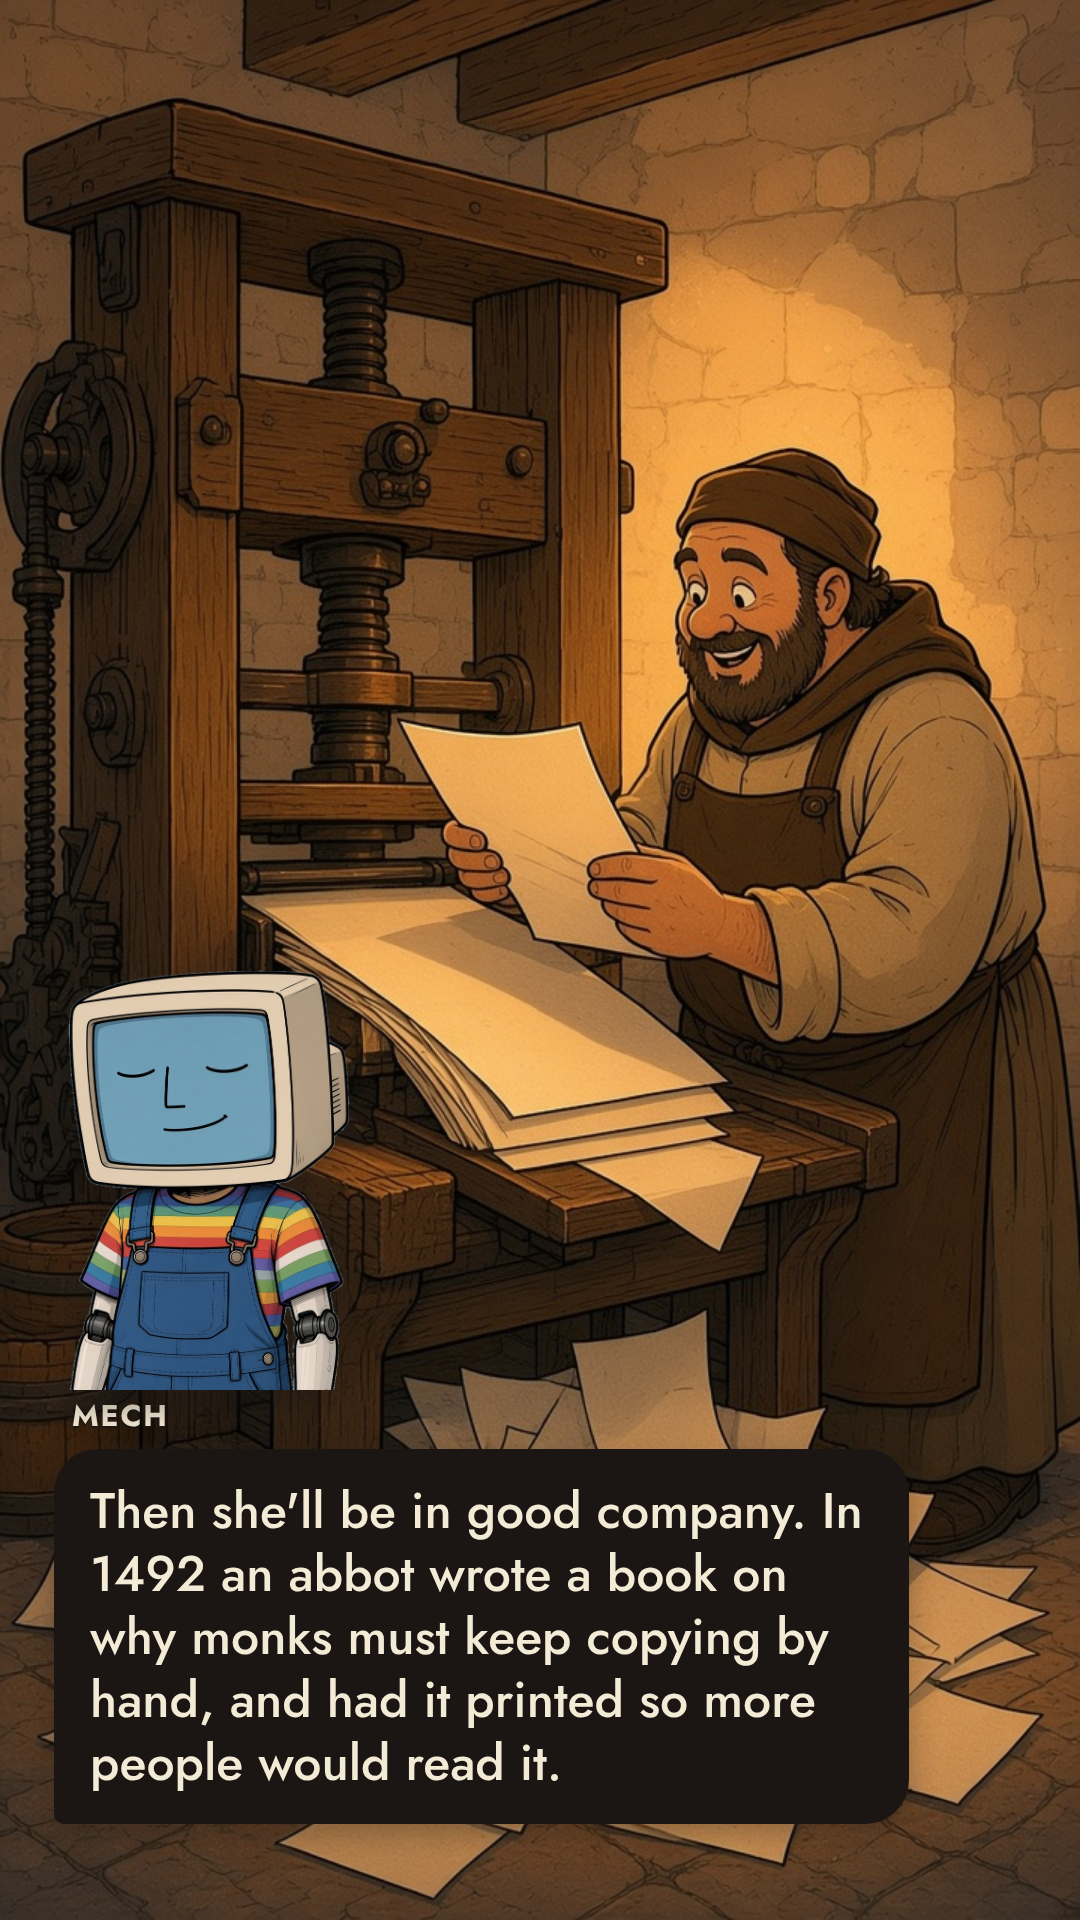
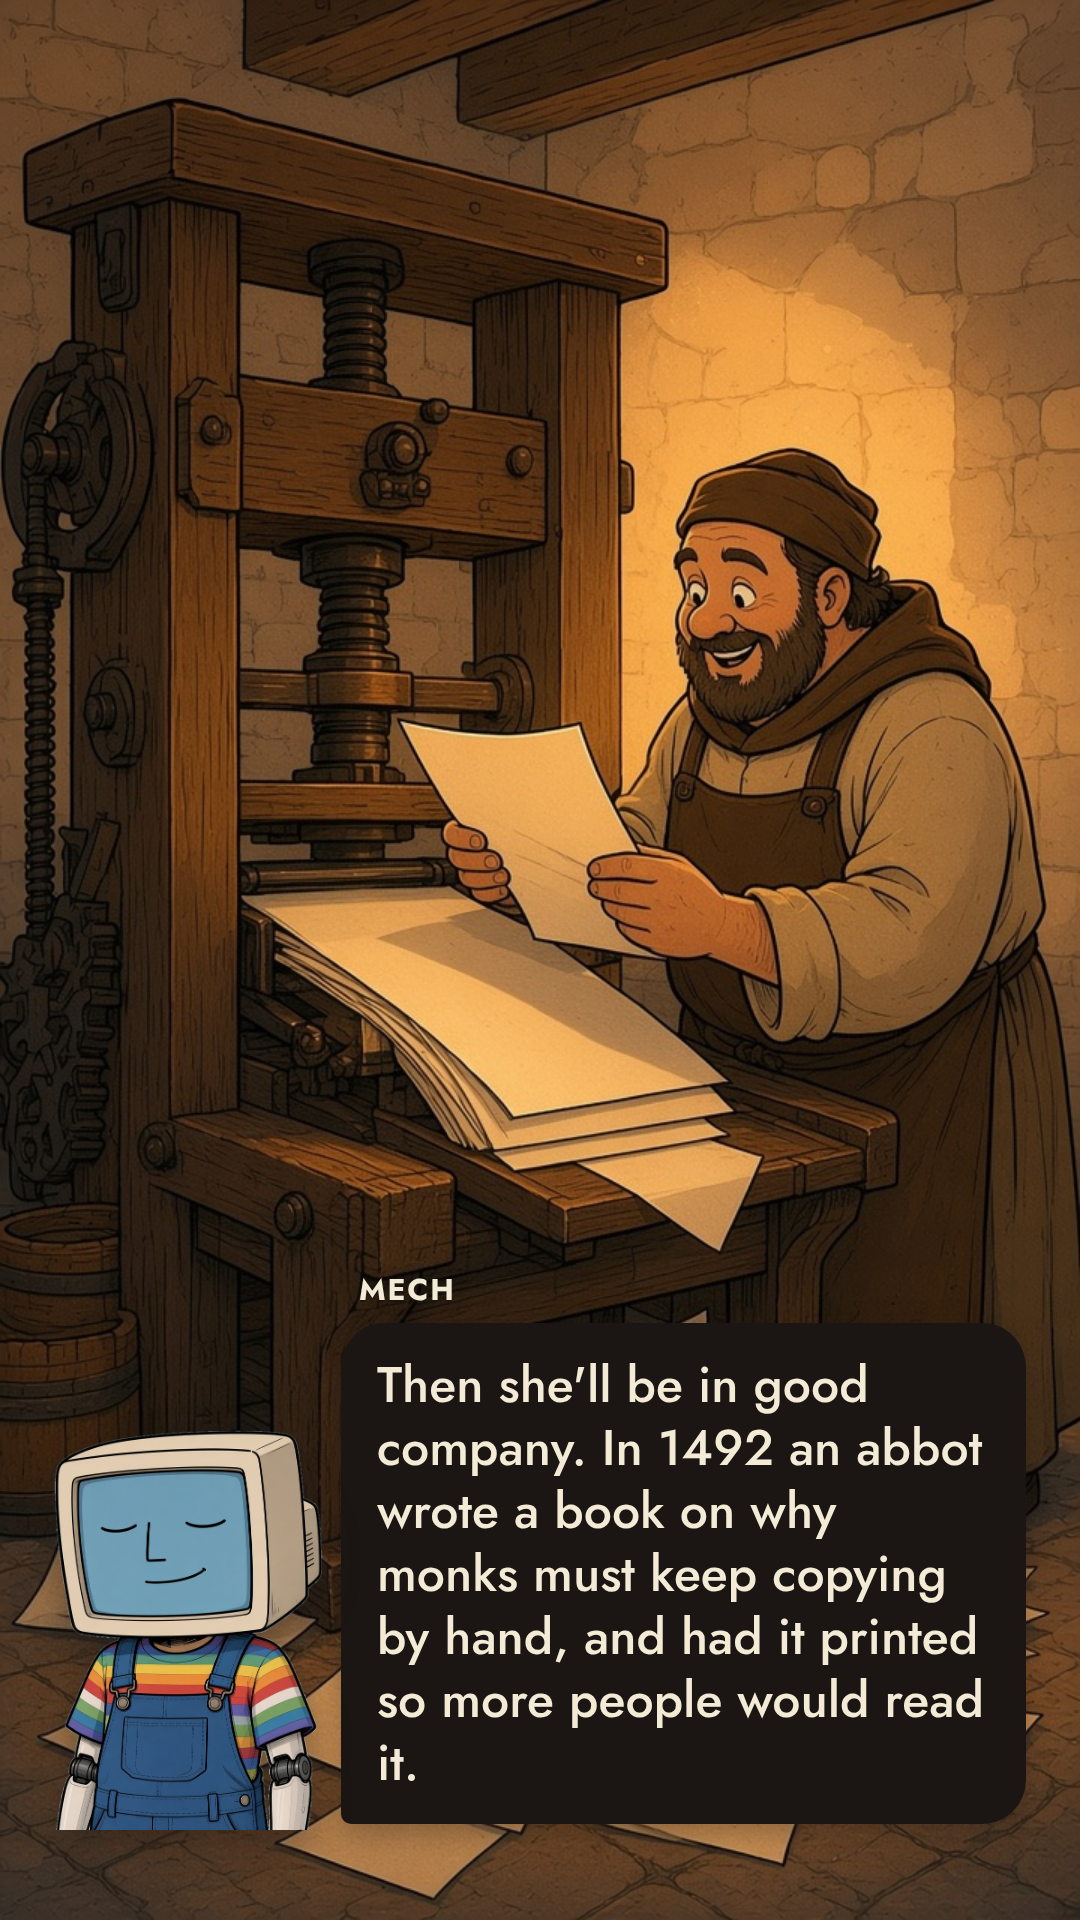
No. 37 slides: Mech beside his bubble
Claude-Session: https://claude.ai/code/session_01UT8Dn4BonstVXXBgMgCnTf

Changed region(s): [[0.0306, 0.5, 0.9778, 0.9688]]

diff --git a/reels/no37/slides.js b/reels/no37/slides.js
@@ -27,7 +27,7 @@ function slide(s) {
   // when the speaker is not in the picture, they float above their bubble, cut out, like a commentator
   const cam = s.cam ? `<div class="cam"><img src="file://${path.join(here, s.cam)}"></div>` : "";
   const bubble = s.who
-    ? `<div class="row ${s.who.toLowerCase()}">${cam}<div class="who">${s.who}</div><div class="bubble">${esc(s.line)}</div></div>`
+    ? `<div class="row ${s.who.toLowerCase()}${s.cam ? " withcam" : ""}">${cam}<div class="stack"><div class="who">${s.who}</div><div class="bubble">${esc(s.line)}</div></div></div>`
     : "";
   // long lines get a smaller size so the bubble stays under a third of the frame
   const size = s.line.length > 260 ? 40 : s.line.length > 160 ? 44 : 50;
@@ -36,12 +36,18 @@ function slide(s) {
 img.bg{position:absolute;inset:0;width:${W}px;height:${H}px;object-fit:cover}
 .row{position:absolute;left:54px;right:54px;bottom:96px;display:flex;flex-direction:column;gap:12px}
 .row.mech{align-items:flex-start}.row.meatbag{align-items:flex-end}
+.stack{display:flex;flex-direction:column;gap:12px;min-width:0}
+.row.meatbag .stack{align-items:flex-end}
+/* the commentator stands beside the bubble, feet level with its bottom edge */
+.row.withcam{flex-direction:row;align-items:flex-end;gap:18px}
+.row.withcam .stack{flex:1}
+.row.withcam .bubble{max-width:100%}
 .who{font-size:30px;font-weight:700;letter-spacing:.06em;text-transform:uppercase;color:${CREAM};text-shadow:0 2px 0 ${INK},0 0 14px rgba(27,22,19,.9);padding:0 18px}
 .bubble{max-width:88%;padding:30px 36px;border-radius:44px;font-size:${size}px;line-height:1.26;font-weight:500;box-shadow:0 10px 30px rgba(27,22,19,.35)}
 .mech .bubble{background:${INK};color:${CREAM};border-bottom-left-radius:10px}
 .meatbag .bubble{background:${DRAB};color:${INK};border-bottom-right-radius:10px}
 .meatbag .who{text-align:right}
-.cam{height:420px;margin:0 0 -8px 14px;filter:drop-shadow(0 14px 18px rgba(27,22,19,.45))}
+.cam{height:400px;flex:none;margin:0 0 -6px 0;filter:drop-shadow(0 14px 18px rgba(27,22,19,.45))}
 .cam img{height:100%;width:auto;display:block}
 </style><body><img class="bg" src="file://${pic}">${bubble}</body>`;
 }
